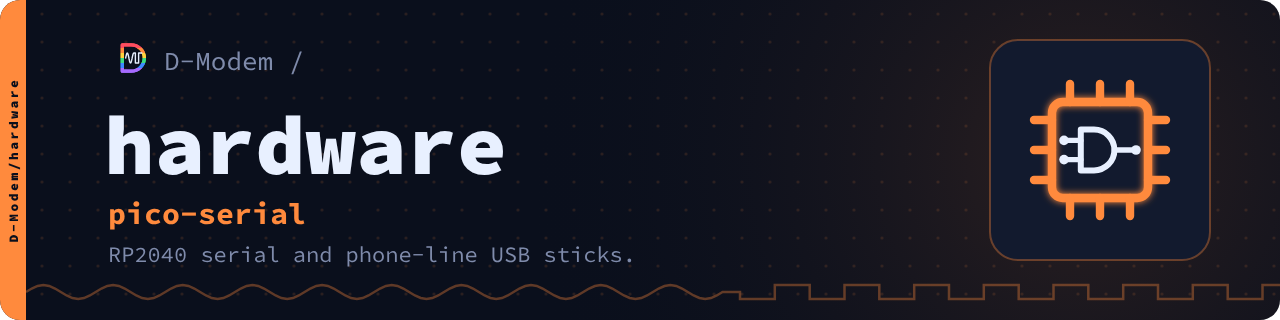
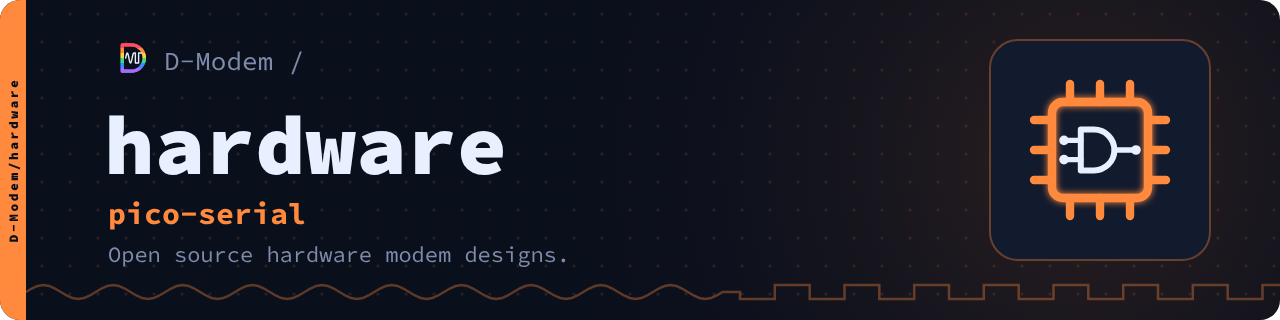
hardware: "Open source hardware modem designs"
Claude-Session: https://claude.ai/code/session_01B82eRR7XmhWoFbzJFFFqde

Changed region(s): [[0.0625, 0.75, 0.5, 0.8438]]

diff --git a/tools/gen.py b/tools/gen.py
@@ -19,7 +19,7 @@ REPOS = {
                      tag="A dial-up modem in your pocket", sub="Android app: V.92 over a SIP call.",
                      chips=["Android", "Kotlin", "NDK", "V.92"]),
     "hardware": dict(book="Orange", color=BOOK["Orange"][1], icon="chip",
-                     tag="pico-serial", sub="RP2040 serial and phone-line USB sticks.",
+                     tag="pico-serial", sub="Open source hardware modem designs.",
                      chips=["RP2040", "DB25", "USB-C", "CERN-OHL-S"]),
     "bbs":      dict(book="Blue", color=BOOK["Blue"][1], icon="bbs",
                      tag="A bulletin board for every caller", sub="Telnet, TN3270 and modem callers, in Go.",
